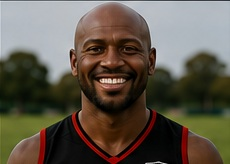
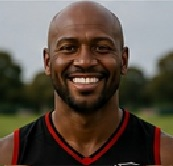
fixing styles

diff --git a/business-demo/team.html b/business-demo/team.html
@@ -47,14 +47,14 @@
 
       <div class="about-content">
 
-        <div class="about-text">
+        <div class="about-text team-text">
           <p>
             Our Board Members are dedicated volunteers who oversee the club's operations, support our players and coaches, and help ensure the club continues to thrive both on and off the field. Their commitment plays a vital role in creating a welcoming and successful football community.
           </p>
         </div>
       </div>
 
-      <div class="team-grid">
+      <div class="team-grid team-grid-coaches">
         <div class="team-card">
           <img src="assets/board1.jpg" alt="Board Member">
           <h3>Michael Brown</h3>
@@ -107,7 +107,7 @@
       </div>
 
       <div class="about-content">
-        <div class="about-text">
+        <div class="about-text team-text">
           <p>
             Our Men's Team is made up of players of all experience levels who share a passion for Australian Rules Football. Whether competing each weekend or developing their skills at training, every player plays an important role in the club.
           </p>
@@ -167,7 +167,7 @@
         <div class="team-card">
           <img src="assets/player9.jpg" alt="Player">
           <h3>Jermey Murphy</h3>
-          <p>Midfield/p>
+          <p>Midfield</p>
         </div>
 
         <div class="team-card">
@@ -196,7 +196,7 @@
       </div>
 
       <div class="about-content">
-        <div class="about-text">
+        <div class="about-text team-text">
           <p>
             Our Women's Team welcomes players of all experience levels and provides a supportive environment where players can develop their skills, build friendships, and enjoy representing the club each season.
           </p>

diff --git a/business-demo/css/styles.css b/business-demo/css/styles.css
@@ -121,7 +121,9 @@
     .team-card { text-align: center; }
     .team-card h3 { font-size: 22px; color: #222; margin-top: 18px; }
     .team-card img { width: 100%; border-radius: 16px; box-shadow: 0 10px 30px rgba(0,0,0,.15); }
-    .team-grid { display: grid; grid-template-columns: repeat(4,1fr); gap: 30px; margin-top: 40px; }
+    .team-grid { display: grid; grid-template-columns: repeat(4,1fr); gap: 30px; margin-top: 30px; }
+    .team-grid-coaches { grid-template-columns: repeat(3,1fr); max-width: 900px; margin: 30px auto 0; }
+    .team-text p { margin: 0 auto 20px; max-width: 850px; text-align: center; }
 
     @media (max-width: 768px) {
       .team-grid { grid-template-columns: repeat(2,1fr); gap: 20px; }